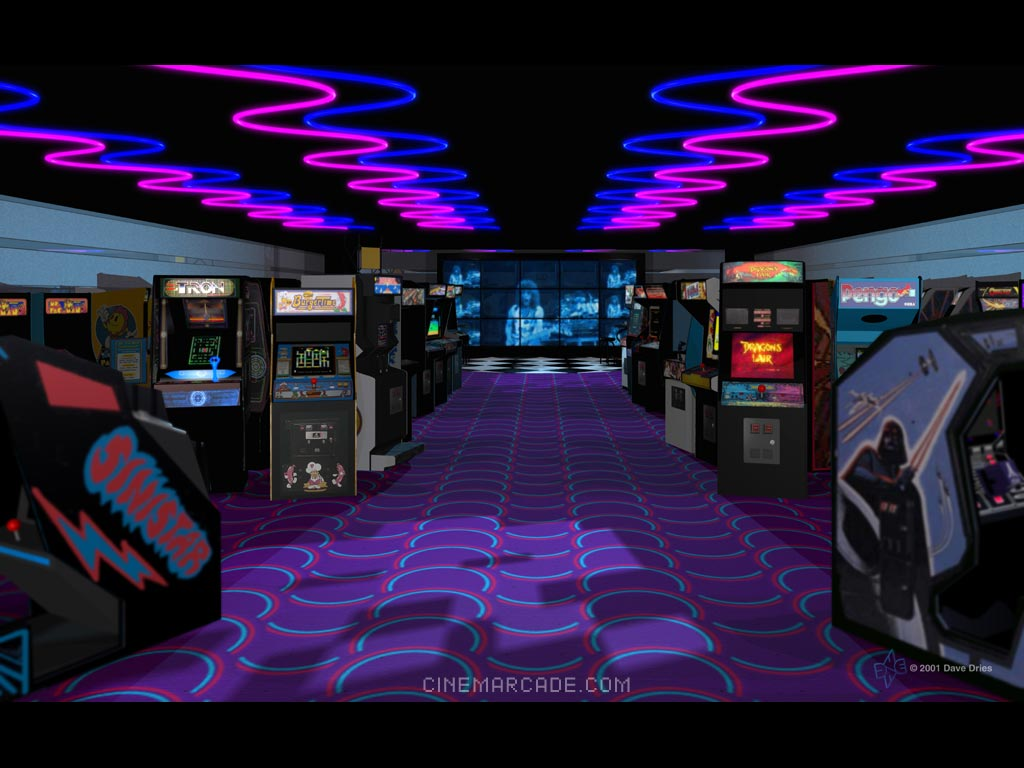
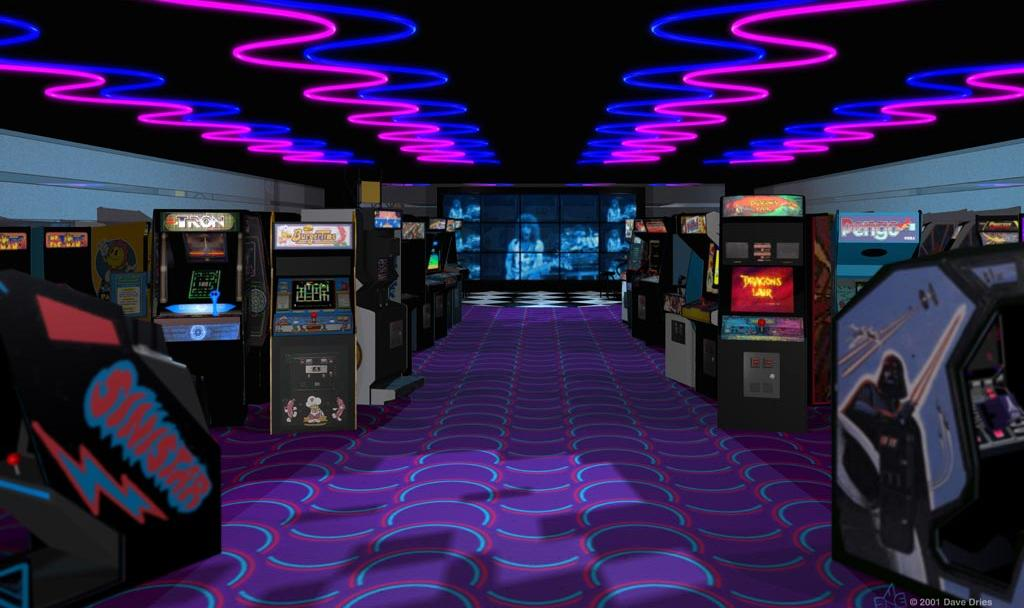
init texture skybox world*

diff --git a/Code/skybox.cpp b/Code/skybox.cpp
@@ -62,7 +62,7 @@ void drawSkyboxMachine (struct posicao *posicao){
     		glVertex3f((*posicao).xFim, (*posicao).yCima, (*posicao).zFrente);
     	glEnd();
 
-        glColor4f(1.0, 1.0, 1.0, 1.0);
+        glColor4f(0.0, 0.0, 0.0, 1.0);
     	glBegin(GL_QUADS);			// Face inferior
     		glNormal3f(0.0, -1.0, 0.0); 	// Normal da face
     		glVertex3f((*posicao).xInicio, (*posicao).yBaixo, (*posicao).zFrente);
@@ -76,13 +76,16 @@ void drawSkyboxMachine (struct posicao *posicao){
 
 void drawSkyboxWorld (struct posicao *posicao, GLint texturaSkyboxWorld[]){ // Colocar texturas do mundo
     glPushMatrix();
+        glEnable(GL_TEXTURE_2D);
+
         glColor4f(1.0, 1.0, 1.0, 1.0);
+        glBindTexture(GL_TEXTURE_2D, texturaSkyboxWorld[2]);
         glBegin(GL_QUADS);			// Face posterior
     		glNormal3f(0.0, 0.0, 1.0);	// Normal da face
-    		glVertex3f((*posicao).xFim, (*posicao).yCima, (*posicao).zFundo);
-    		glVertex3f((*posicao).xInicio, (*posicao).yCima, (*posicao).zFundo);
-    		glVertex3f((*posicao).xInicio, (*posicao).yBaixo, (*posicao).zFundo);
-    		glVertex3f((*posicao).xFim, (*posicao).yBaixo, (*posicao).zFundo);
+    		glTexCoord2f(0, 1); glVertex3f((*posicao).xFim, (*posicao).yCima, (*posicao).zFundo);
+    		glTexCoord2f(1, 1); glVertex3f((*posicao).xInicio, (*posicao).yCima, (*posicao).zFundo);
+    		glTexCoord2f(1, 0); glVertex3f((*posicao).xInicio, (*posicao).yBaixo, (*posicao).zFundo);
+    		glTexCoord2f(0, 0); glVertex3f((*posicao).xFim, (*posicao).yBaixo, (*posicao).zFundo);
     	glEnd();
 
         //
@@ -94,28 +97,28 @@ void drawSkyboxWorld (struct posicao *posicao, GLint texturaSkyboxWorld[]){ // C
     	// 	glVertex3f(-40.0, 40.0, -40.0);
     	// glEnd();
 
-        glColor4f(1.0, 0.0, 0.0, 1.0);
+        glColor4f(1.0, 1.0, 1.0, 1.0);
+        glBindTexture(GL_TEXTURE_2D, texturaSkyboxWorld[2]);
     	glBegin(GL_QUADS);			// Face lateral esquerda
     		glNormal3f(-1.0, 0.0, 0.0); 	// Normal da face
-    		glVertex3f((*posicao).xInicio, (*posicao).yCima, (*posicao).zFundo);
-    		glVertex3f((*posicao).xInicio, (*posicao).yCima, (*posicao).zFrente);
-    		glVertex3f((*posicao).xInicio, (*posicao).yBaixo, (*posicao).zFrente);
-    		glVertex3f((*posicao).xInicio, (*posicao).yBaixo, (*posicao).zFundo);
+    		glTexCoord2f(0, 1); glVertex3f((*posicao).xInicio, (*posicao).yCima, (*posicao).zFundo);
+    		glTexCoord2f(1, 1); glVertex3f((*posicao).xInicio, (*posicao).yCima, (*posicao).zFrente);
+    		glTexCoord2f(1, 0); glVertex3f((*posicao).xInicio, (*posicao).yBaixo, (*posicao).zFrente);
+    		glTexCoord2f(0, 0); glVertex3f((*posicao).xInicio, (*posicao).yBaixo, (*posicao).zFundo);
     	glEnd();
 
-        glColor4f(0.0, 1.0, 0.0, 1.0);
+        glColor4f(1.0, 1.0, 1.0, 1.0);
+        glBindTexture(GL_TEXTURE_2D, texturaSkyboxWorld[2]);
     	glBegin(GL_QUADS);			// Face lateral direita
     		glNormal3f(1.0, 0.0, 0.0);	// Normal da face
-    		glVertex3f((*posicao).xFim, (*posicao).yCima, (*posicao).zFundo);
-    		glVertex3f((*posicao).xFim, (*posicao).yBaixo, (*posicao).zFundo);
-    		glVertex3f((*posicao).xFim, (*posicao).yBaixo, (*posicao).zFrente);
-    		glVertex3f((*posicao).xFim, (*posicao).yCima, (*posicao).zFrente);
+    		glTexCoord2f(0, 1); glVertex3f((*posicao).xFim, (*posicao).yCima, (*posicao).zFundo);
+    		glTexCoord2f(0, 0); glVertex3f((*posicao).xFim, (*posicao).yBaixo, (*posicao).zFundo);
+    		glTexCoord2f(1, 0); glVertex3f((*posicao).xFim, (*posicao).yBaixo, (*posicao).zFrente);
+    		glTexCoord2f(1, 1); glVertex3f((*posicao).xFim, (*posicao).yCima, (*posicao).zFrente);
     	glEnd();
 
         glColor4f(0.0, 0.0, 1.0, 1.0);
-        glEnable(GL_TEXTURE_2D);
         glBindTexture(GL_TEXTURE_2D, texturaSkyboxWorld[0]);
-
         glBegin(GL_QUADS);			// Face superior
     		glNormal3f(0.0, 1.0, 0.0);  	// Normal da face
     		glTexCoord2f(1, 0); glVertex3f((*posicao).xInicio, (*posicao).yCima, (*posicao).zFrente);
@@ -123,15 +126,17 @@ void drawSkyboxWorld (struct posicao *posicao, GLint texturaSkyboxWorld[]){ // C
     		glTexCoord2f(0, 1); glVertex3f((*posicao).xFim, (*posicao).yCima, (*posicao).zFundo);
     		glTexCoord2f(0, 0); glVertex3f((*posicao).xFim, (*posicao).yCima, (*posicao).zFrente);
     	glEnd();
-        glDisable(GL_TEXTURE_2D);
 
         glColor4f(1.0, 1.0, 1.0, 1.0);
+        glBindTexture(GL_TEXTURE_2D, texturaSkyboxWorld[1]);
     	glBegin(GL_QUADS);			// Face inferior
     		glNormal3f(0.0, -1.0, 0.0); 	// Normal da face
-    		glVertex3f((*posicao).xInicio, (*posicao).yBaixo, (*posicao).zFrente);
-    		glVertex3f((*posicao).xFim, (*posicao).yBaixo, (*posicao).zFrente);
-    		glVertex3f((*posicao).xFim, (*posicao).yBaixo, (*posicao).zFundo);
-    		glVertex3f((*posicao).xInicio, (*posicao).yBaixo, (*posicao).zFundo);
+    		glTexCoord2f(1, 0); glVertex3f((*posicao).xInicio, (*posicao).yBaixo, (*posicao).zFrente);
+    		glTexCoord2f(1, 1); glVertex3f((*posicao).xFim, (*posicao).yBaixo, (*posicao).zFrente);
+    		glTexCoord2f(0, 1); glVertex3f((*posicao).xFim, (*posicao).yBaixo, (*posicao).zFundo);
+    		glTexCoord2f(0, 0); glVertex3f((*posicao).xInicio, (*posicao).yBaixo, (*posicao).zFundo);
     	glEnd();
+
+        glDisable(GL_TEXTURE_2D);
     glPopMatrix();
 }

diff --git a/Code/main.cpp b/Code/main.cpp
@@ -77,10 +77,10 @@ static void atualizaCena(int idx){
 
 void init (){
     //Instancia variáveis do skybox da maquina
-    posicaoSkyboxMachine.zFundo = -8.0;
-    posicaoSkyboxMachine.zFrente = -2.0;
+    posicaoSkyboxMachine.zFundo = -12.0;
+    posicaoSkyboxMachine.zFrente = -6.0;
     posicaoSkyboxMachine.yCima = 3.0;
-    posicaoSkyboxMachine.yBaixo = -5;
+    posicaoSkyboxMachine.yBaixo = -4.5;
     posicaoSkyboxMachine.xInicio = -3;
     posicaoSkyboxMachine.xFim = 3;
 
@@ -104,6 +104,18 @@ void init (){
         SOIL_CREATE_NEW_ID,
 		SOIL_FLAG_INVERT_Y
 	);
+    texturaSkyboxWorld[1] = SOIL_load_OGL_texture(
+        "./img/floor.png",
+        SOIL_LOAD_AUTO,
+        SOIL_CREATE_NEW_ID,
+        SOIL_FLAG_INVERT_Y
+    );
+    texturaSkyboxWorld[2] = SOIL_load_OGL_texture(
+        "./img/arcade.jpg",
+        SOIL_LOAD_AUTO,
+        SOIL_CREATE_NEW_ID,
+        SOIL_FLAG_INVERT_Y
+    );
 }
 
 void redimensiona (int width, int height){
